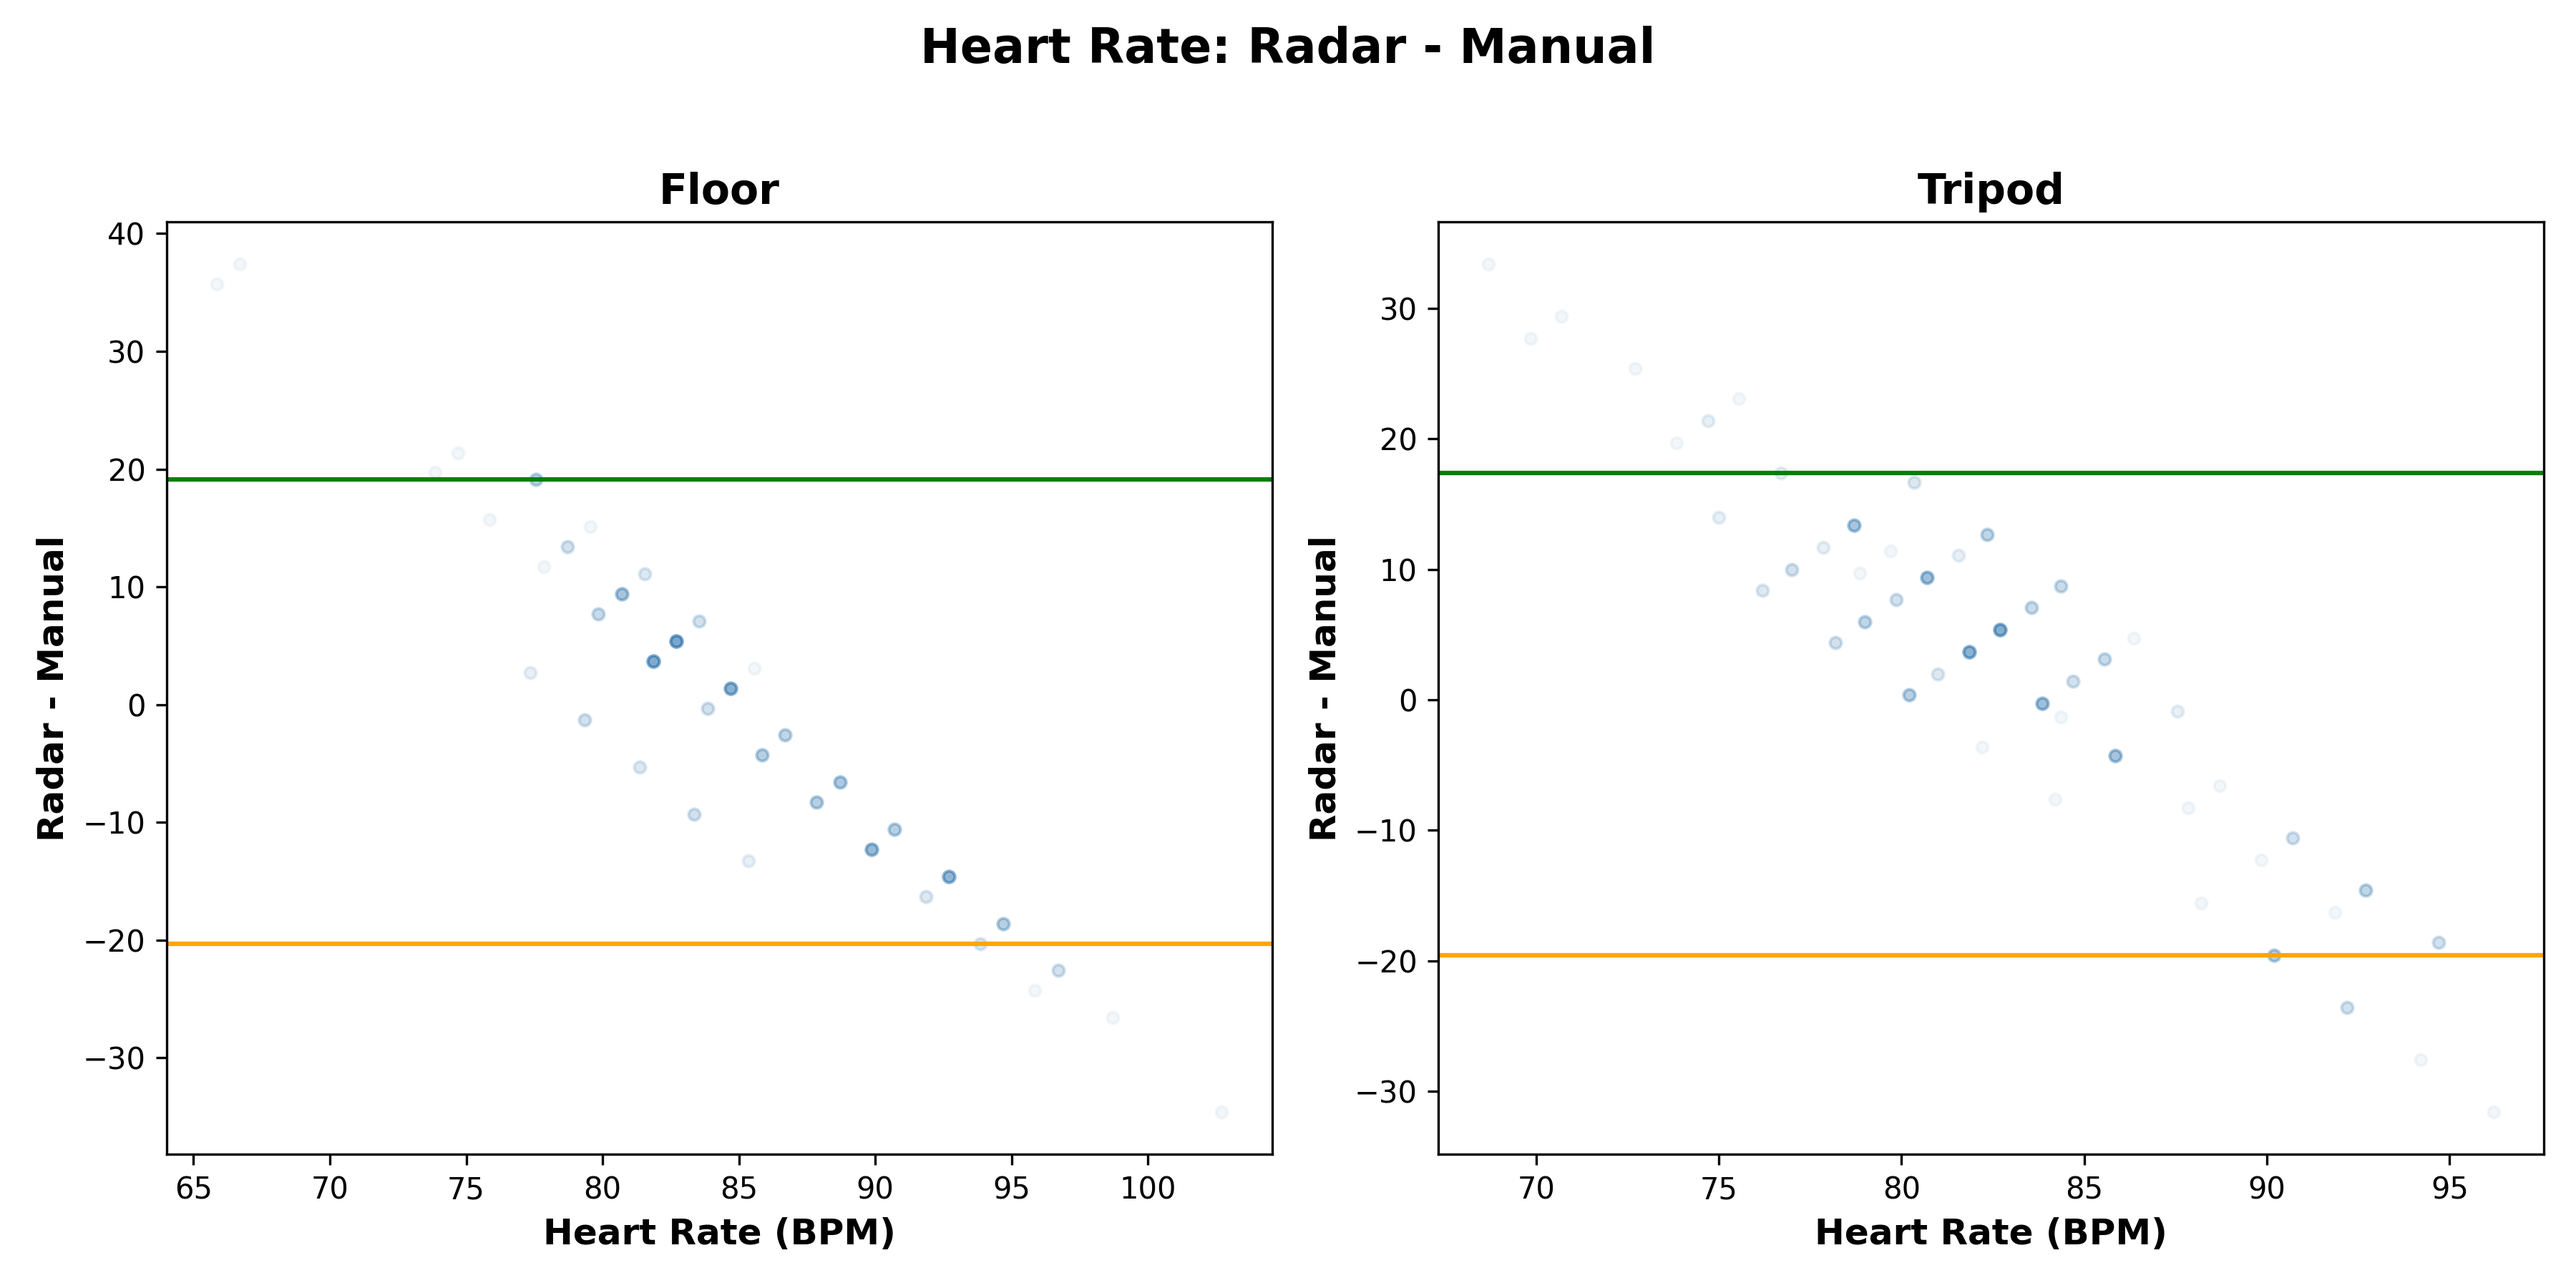
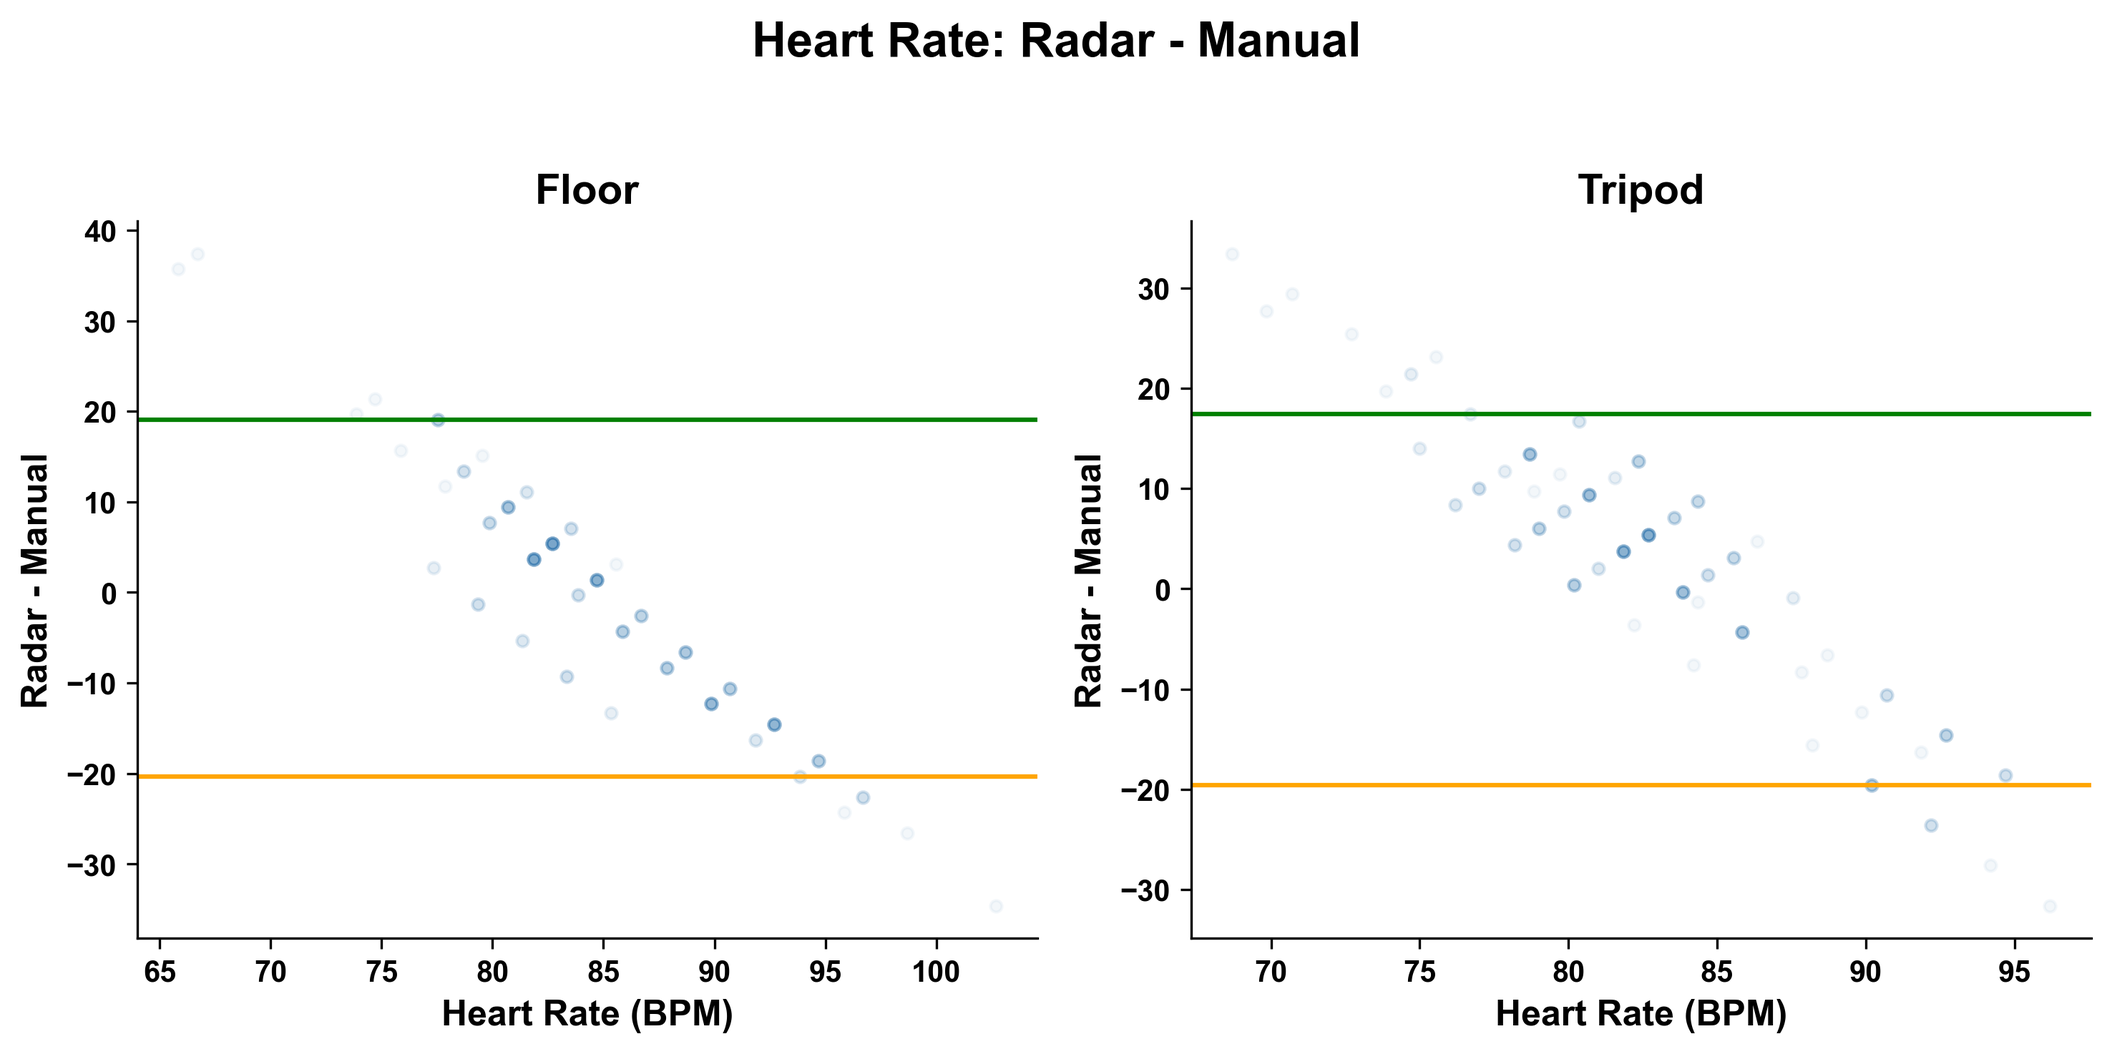
bland altman plots cleaned up

diff --git a/src/plot_ba.py b/src/plot_ba.py
@@ -6,6 +6,7 @@ from src.lib.globals import *
 import src.lib.directory as dir
 import scipy.stats as stats
 import numpy as np
+import src.lib.plot_styles as ps
 
 
 class Plot_specs:
@@ -58,7 +59,8 @@ class Plot_specs:
     
 
     def plot(self):
-        fig, axes = plt.subplots(1, 2, figsize=(12, 6))
+        ps.color_style()
+        fig, axes = plt.subplots(1, 2, figsize=(10, 5))
 
         self._plot_subplot(axes[0], self._floor_a, self._floor_b, 'Floor')
         axes[0].set_title('Floor', fontweight='bold', fontsize=14)
